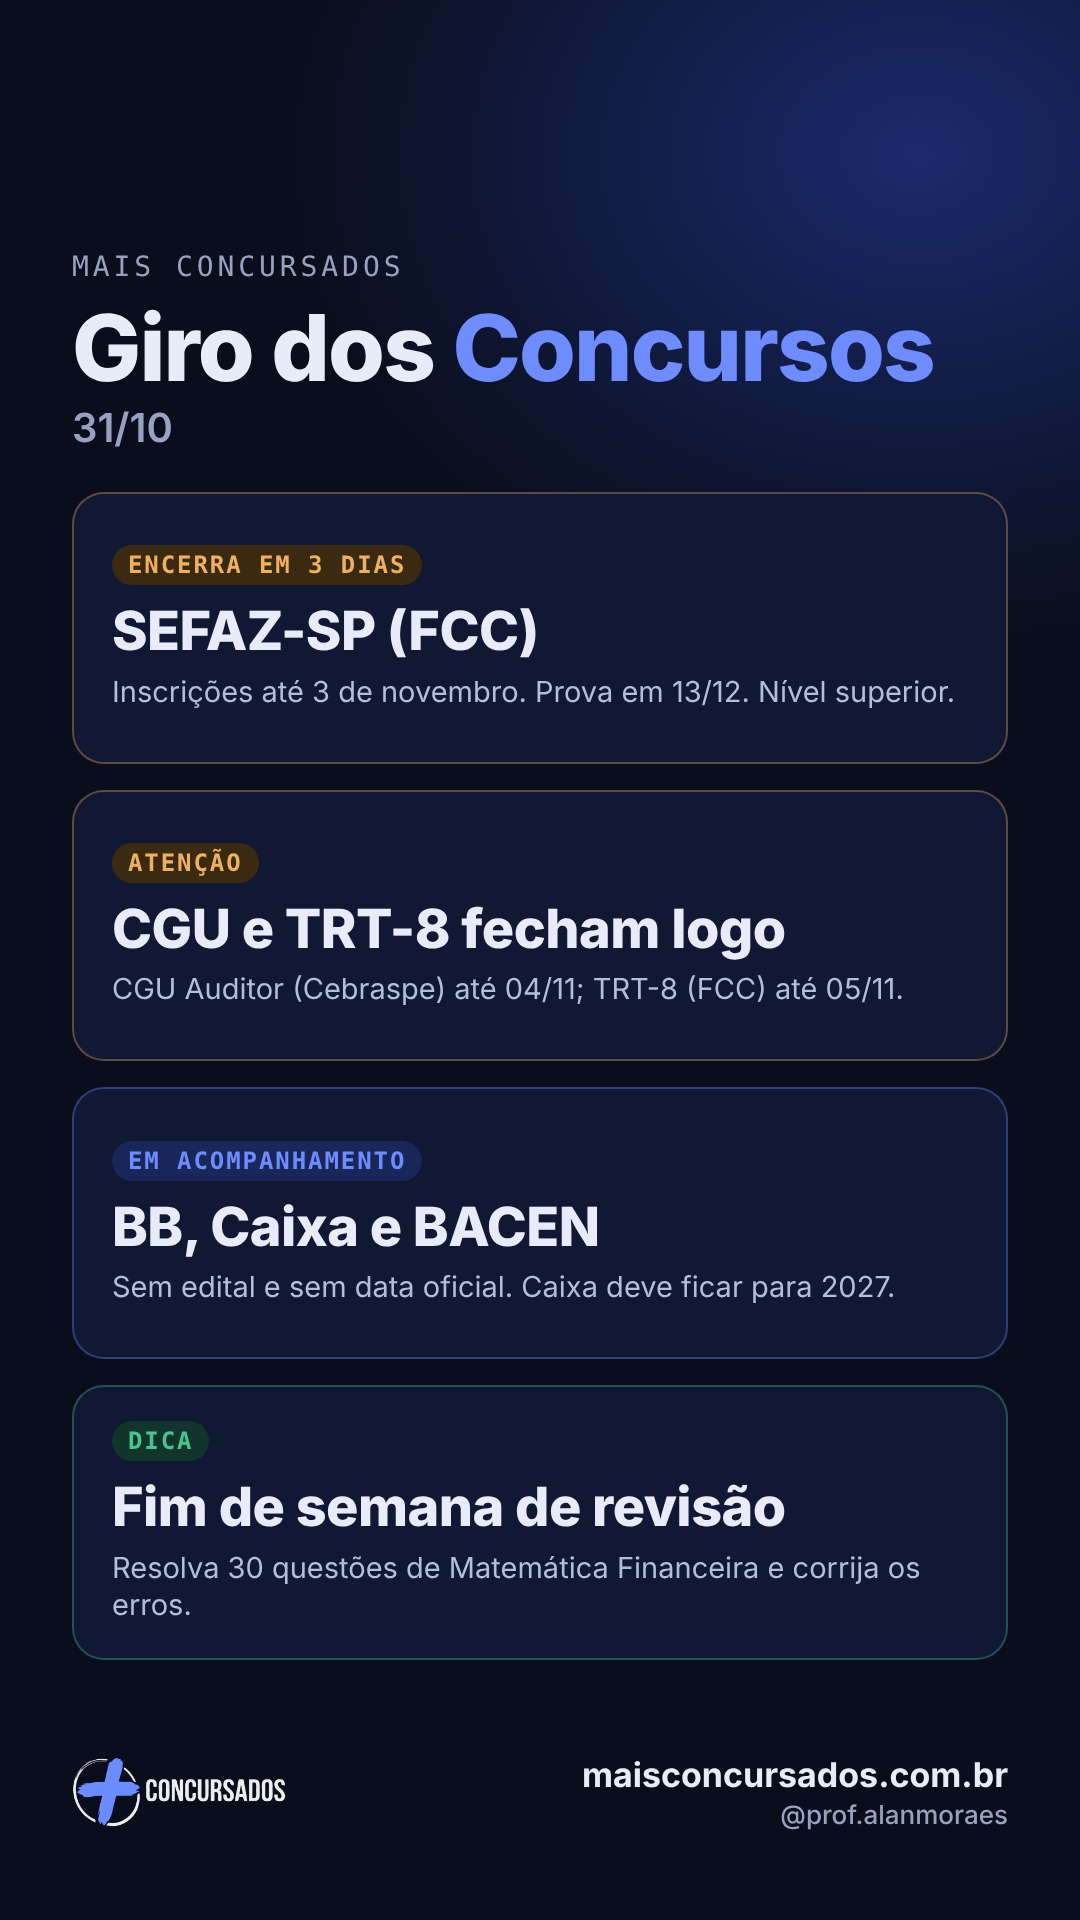
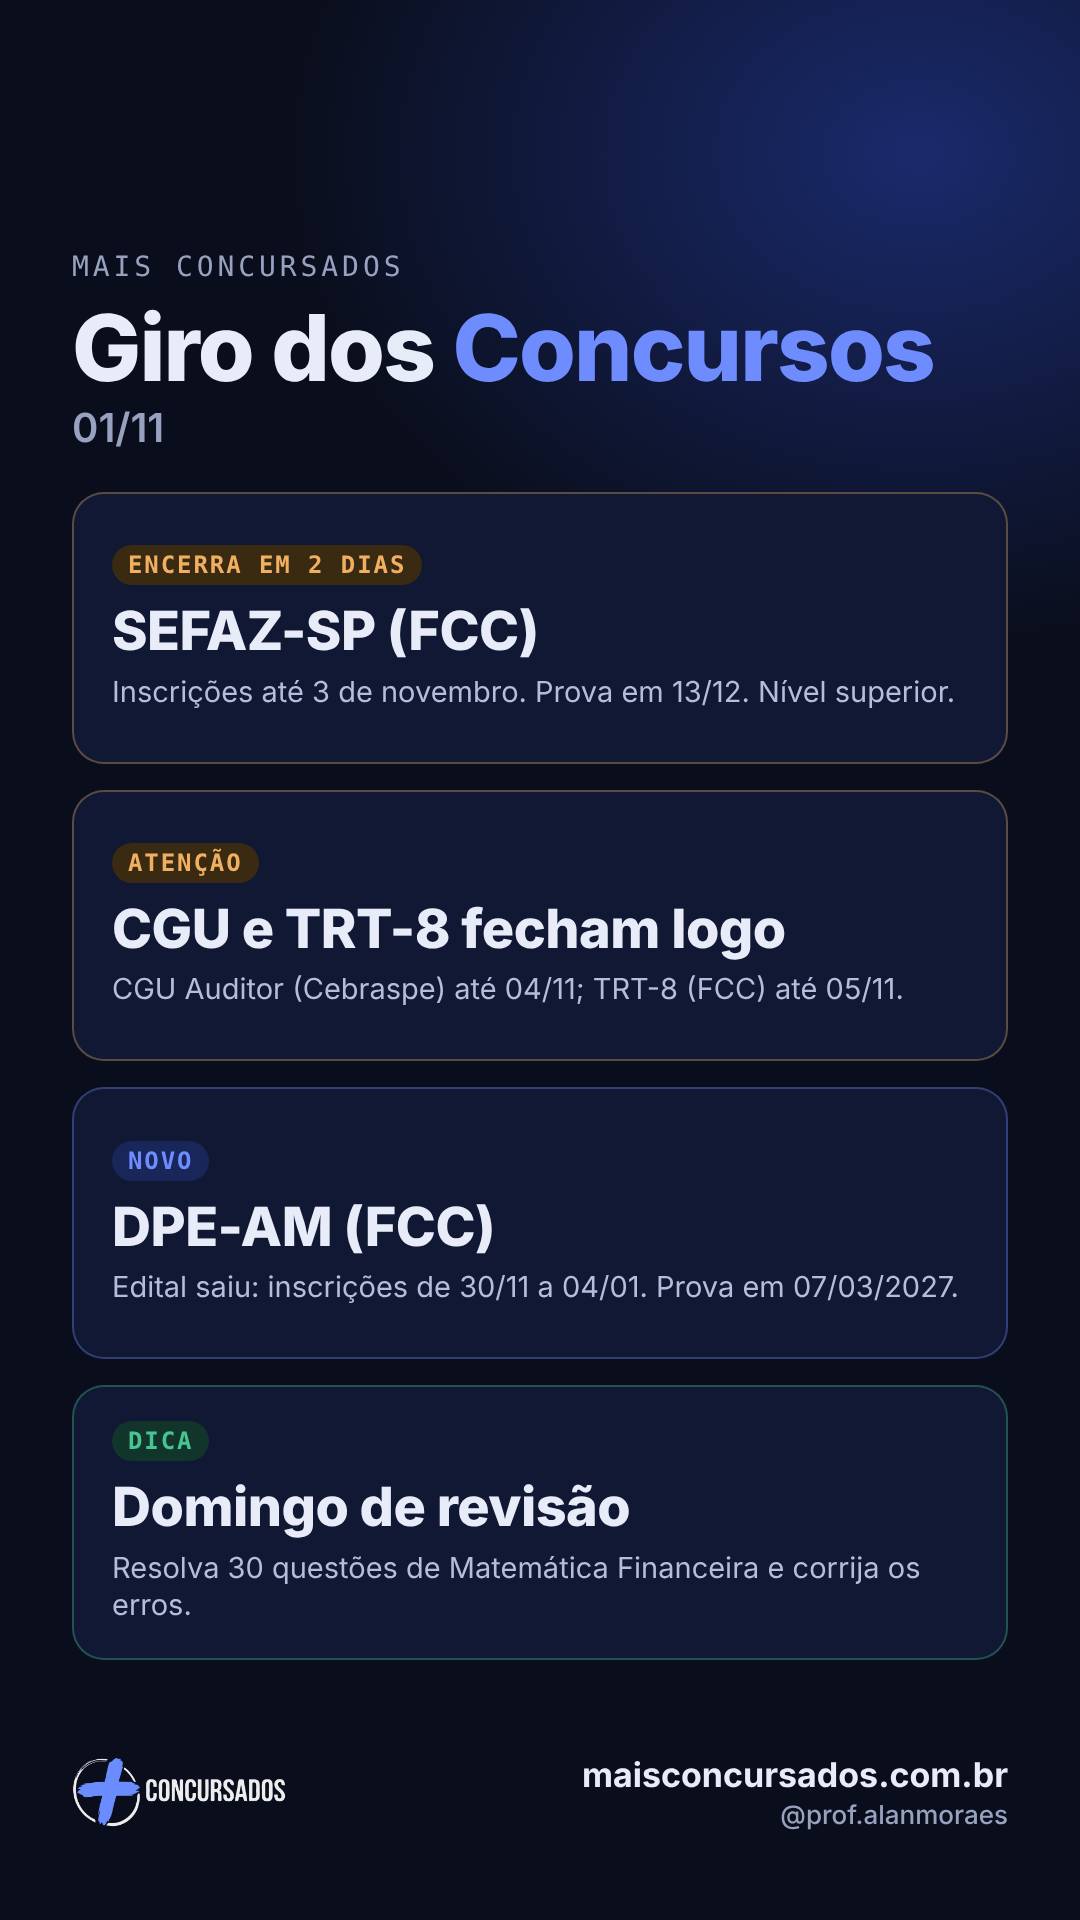
Giro dos Concursos 01/11: edital DPE-AM (FCC) e arte de stories
Claude-Session: https://claude.ai/code/session_01A4P6MWj53yJ2k7bSnqMzCP

diff --git a/site/editais.html b/site/editais.html
@@ -48,7 +48,7 @@
 </main>
 <footer><div class="wrap"><div><h4>Mais Concursados</h4><p>Editais de concursos de todas as áreas, com destaque para os bancários, e estudo com método para quem quer a aprovação. Por Alan Moraes, bancário, professor e mentor para concursos.</p></div><div><h4>Navegue</h4><ul><li><a href="editais.html">Editais</a></li><li><a href="cursos.html">Cursos</a></li><li><a href="blog.html">Blog</a></li><li><a href="mentorias.html">Mentorias</a></li><li><a href="area-do-aluno.html">Área do aluno</a></li></ul></div><div><h4>Institucional</h4><ul><li><a href="sobre.html">Sobre o Alan</a></li><li><a href="contato.html">Contato</a></li><li><a href="privacidade.html">Política de privacidade</a></li></ul></div><p class="legal">© 2026 Mais Concursados · maisconcursados.com.br. As informações de editais vêm de portais de notícias e devem ser conferidas no edital oficial. O Mais Concursados não é banca organizadora nem órgão público.</p></div></footer>
 <script type="application/json" id="editais-data">{
- "atualizadoEm": "2026-10-31",
+ "atualizadoEm": "2026-11-01",
  "aviso": "Conferido em 13/10/2026 no texto dos editais e em pelo menos duas fontes independentes. Os sites das bancas bloquearam a leitura automática, por isso confirme sempre no edital oficial antes de se inscrever.",
  "editais": [
   {
@@ -291,7 +291,7 @@
      "url": "https://movimentoeconomico.com.br/concursos/2026/07/06/receita-federal-e-banco-central-tem-concursos-autorizados-com-316-vagas/"
     }
    ],
-   "conferidoEm": "2026-10-31"
+   "conferidoEm": "2026-11-01"
   },
   {
    "id": "receita-federal",
@@ -334,7 +334,7 @@
      "url": "https://movimentoeconomico.com.br/concursos/2026/07/06/receita-federal-e-banco-central-tem-concursos-autorizados-com-316-vagas/"
     }
    ],
-   "conferidoEm": "2026-10-28"
+   "conferidoEm": "2026-11-01"
   },
   {
    "id": "banco-do-brasil",
@@ -630,6 +630,32 @@
    "previsao": "",
    "validado": true,
    "conferidoEm": "2026-10-13"
+  },
+  {
+   "id": "dpe-am-servidores",
+   "org": "Defensoria Pública do Amazonas (DPE-AM)",
+   "cargo": "Analista e Assistente Técnico",
+   "area": "outros",
+   "status": "aberto",
+   "banca": "FCC",
+   "vagas": 5,
+   "vagasTexto": "5 imediatas + cadastro de reserva",
+   "salario": "R$ 4.713,02 a R$ 8.006,38",
+   "inscricoesAte": "2027-01-04",
+   "previsao": "",
+   "obs": "Edital publicado em 31/10/2026. Inscrições de 30/11/2026 a 04/01/2027, só pela internet. Isenção de 30/11 a 04/12/2026. Taxa R$ 100 (médio/técnico) e R$ 125 (superior); pagamento até 05/01/2027. Prova objetiva em 07/03/2027 (60 questões). Níveis médio, técnico e superior.",
+   "validado": true,
+   "fontes": [
+    {
+     "nome": "Estratégia Concursos",
+     "url": "https://concursos.estrategia.com/portal/concurso-dpe-am-2026-edital-publicado"
+    },
+    {
+     "nome": "Gran Cursos",
+     "url": "https://blog.grancursosonline.com.br/concurso-dpe-am-edital-publicado-2026"
+    }
+   ],
+   "conferidoEm": "2026-11-01"
   }
  ]
 }</script>

diff --git a/site/index.html b/site/index.html
@@ -72,7 +72,7 @@
 </main>
 <footer><div class="wrap"><div><h4>Mais Concursados</h4><p>Editais de concursos de todas as áreas, com destaque para os bancários, e estudo com método para quem quer a aprovação. Por Alan Moraes, bancário, professor e mentor para concursos.</p></div><div><h4>Navegue</h4><ul><li><a href="editais.html">Editais</a></li><li><a href="cursos.html">Cursos</a></li><li><a href="blog.html">Blog</a></li><li><a href="mentorias.html">Mentorias</a></li><li><a href="area-do-aluno.html">Área do aluno</a></li></ul></div><div><h4>Institucional</h4><ul><li><a href="sobre.html">Sobre o Alan</a></li><li><a href="contato.html">Contato</a></li><li><a href="privacidade.html">Política de privacidade</a></li></ul></div><p class="legal">© 2026 Mais Concursados · maisconcursados.com.br. As informações de editais vêm de portais de notícias e devem ser conferidas no edital oficial. O Mais Concursados não é banca organizadora nem órgão público.</p></div></footer>
 <script type="application/json" id="editais-data">{
- "atualizadoEm": "2026-10-31",
+ "atualizadoEm": "2026-11-01",
  "aviso": "Conferido em 13/10/2026 no texto dos editais e em pelo menos duas fontes independentes. Os sites das bancas bloquearam a leitura automática, por isso confirme sempre no edital oficial antes de se inscrever.",
  "editais": [
   {
@@ -315,7 +315,7 @@
      "url": "https://movimentoeconomico.com.br/concursos/2026/07/06/receita-federal-e-banco-central-tem-concursos-autorizados-com-316-vagas/"
     }
    ],
-   "conferidoEm": "2026-10-31"
+   "conferidoEm": "2026-11-01"
   },
   {
    "id": "receita-federal",
@@ -358,7 +358,7 @@
      "url": "https://movimentoeconomico.com.br/concursos/2026/07/06/receita-federal-e-banco-central-tem-concursos-autorizados-com-316-vagas/"
     }
    ],
-   "conferidoEm": "2026-10-28"
+   "conferidoEm": "2026-11-01"
   },
   {
    "id": "banco-do-brasil",
@@ -654,6 +654,32 @@
    "previsao": "",
    "validado": true,
    "conferidoEm": "2026-10-13"
+  },
+  {
+   "id": "dpe-am-servidores",
+   "org": "Defensoria Pública do Amazonas (DPE-AM)",
+   "cargo": "Analista e Assistente Técnico",
+   "area": "outros",
+   "status": "aberto",
+   "banca": "FCC",
+   "vagas": 5,
+   "vagasTexto": "5 imediatas + cadastro de reserva",
+   "salario": "R$ 4.713,02 a R$ 8.006,38",
+   "inscricoesAte": "2027-01-04",
+   "previsao": "",
+   "obs": "Edital publicado em 31/10/2026. Inscrições de 30/11/2026 a 04/01/2027, só pela internet. Isenção de 30/11 a 04/12/2026. Taxa R$ 100 (médio/técnico) e R$ 125 (superior); pagamento até 05/01/2027. Prova objetiva em 07/03/2027 (60 questões). Níveis médio, técnico e superior.",
+   "validado": true,
+   "fontes": [
+    {
+     "nome": "Estratégia Concursos",
+     "url": "https://concursos.estrategia.com/portal/concurso-dpe-am-2026-edital-publicado"
+    },
+    {
+     "nome": "Gran Cursos",
+     "url": "https://blog.grancursosonline.com.br/concurso-dpe-am-edital-publicado-2026"
+    }
+   ],
+   "conferidoEm": "2026-11-01"
   }
  ]
 }</script>
